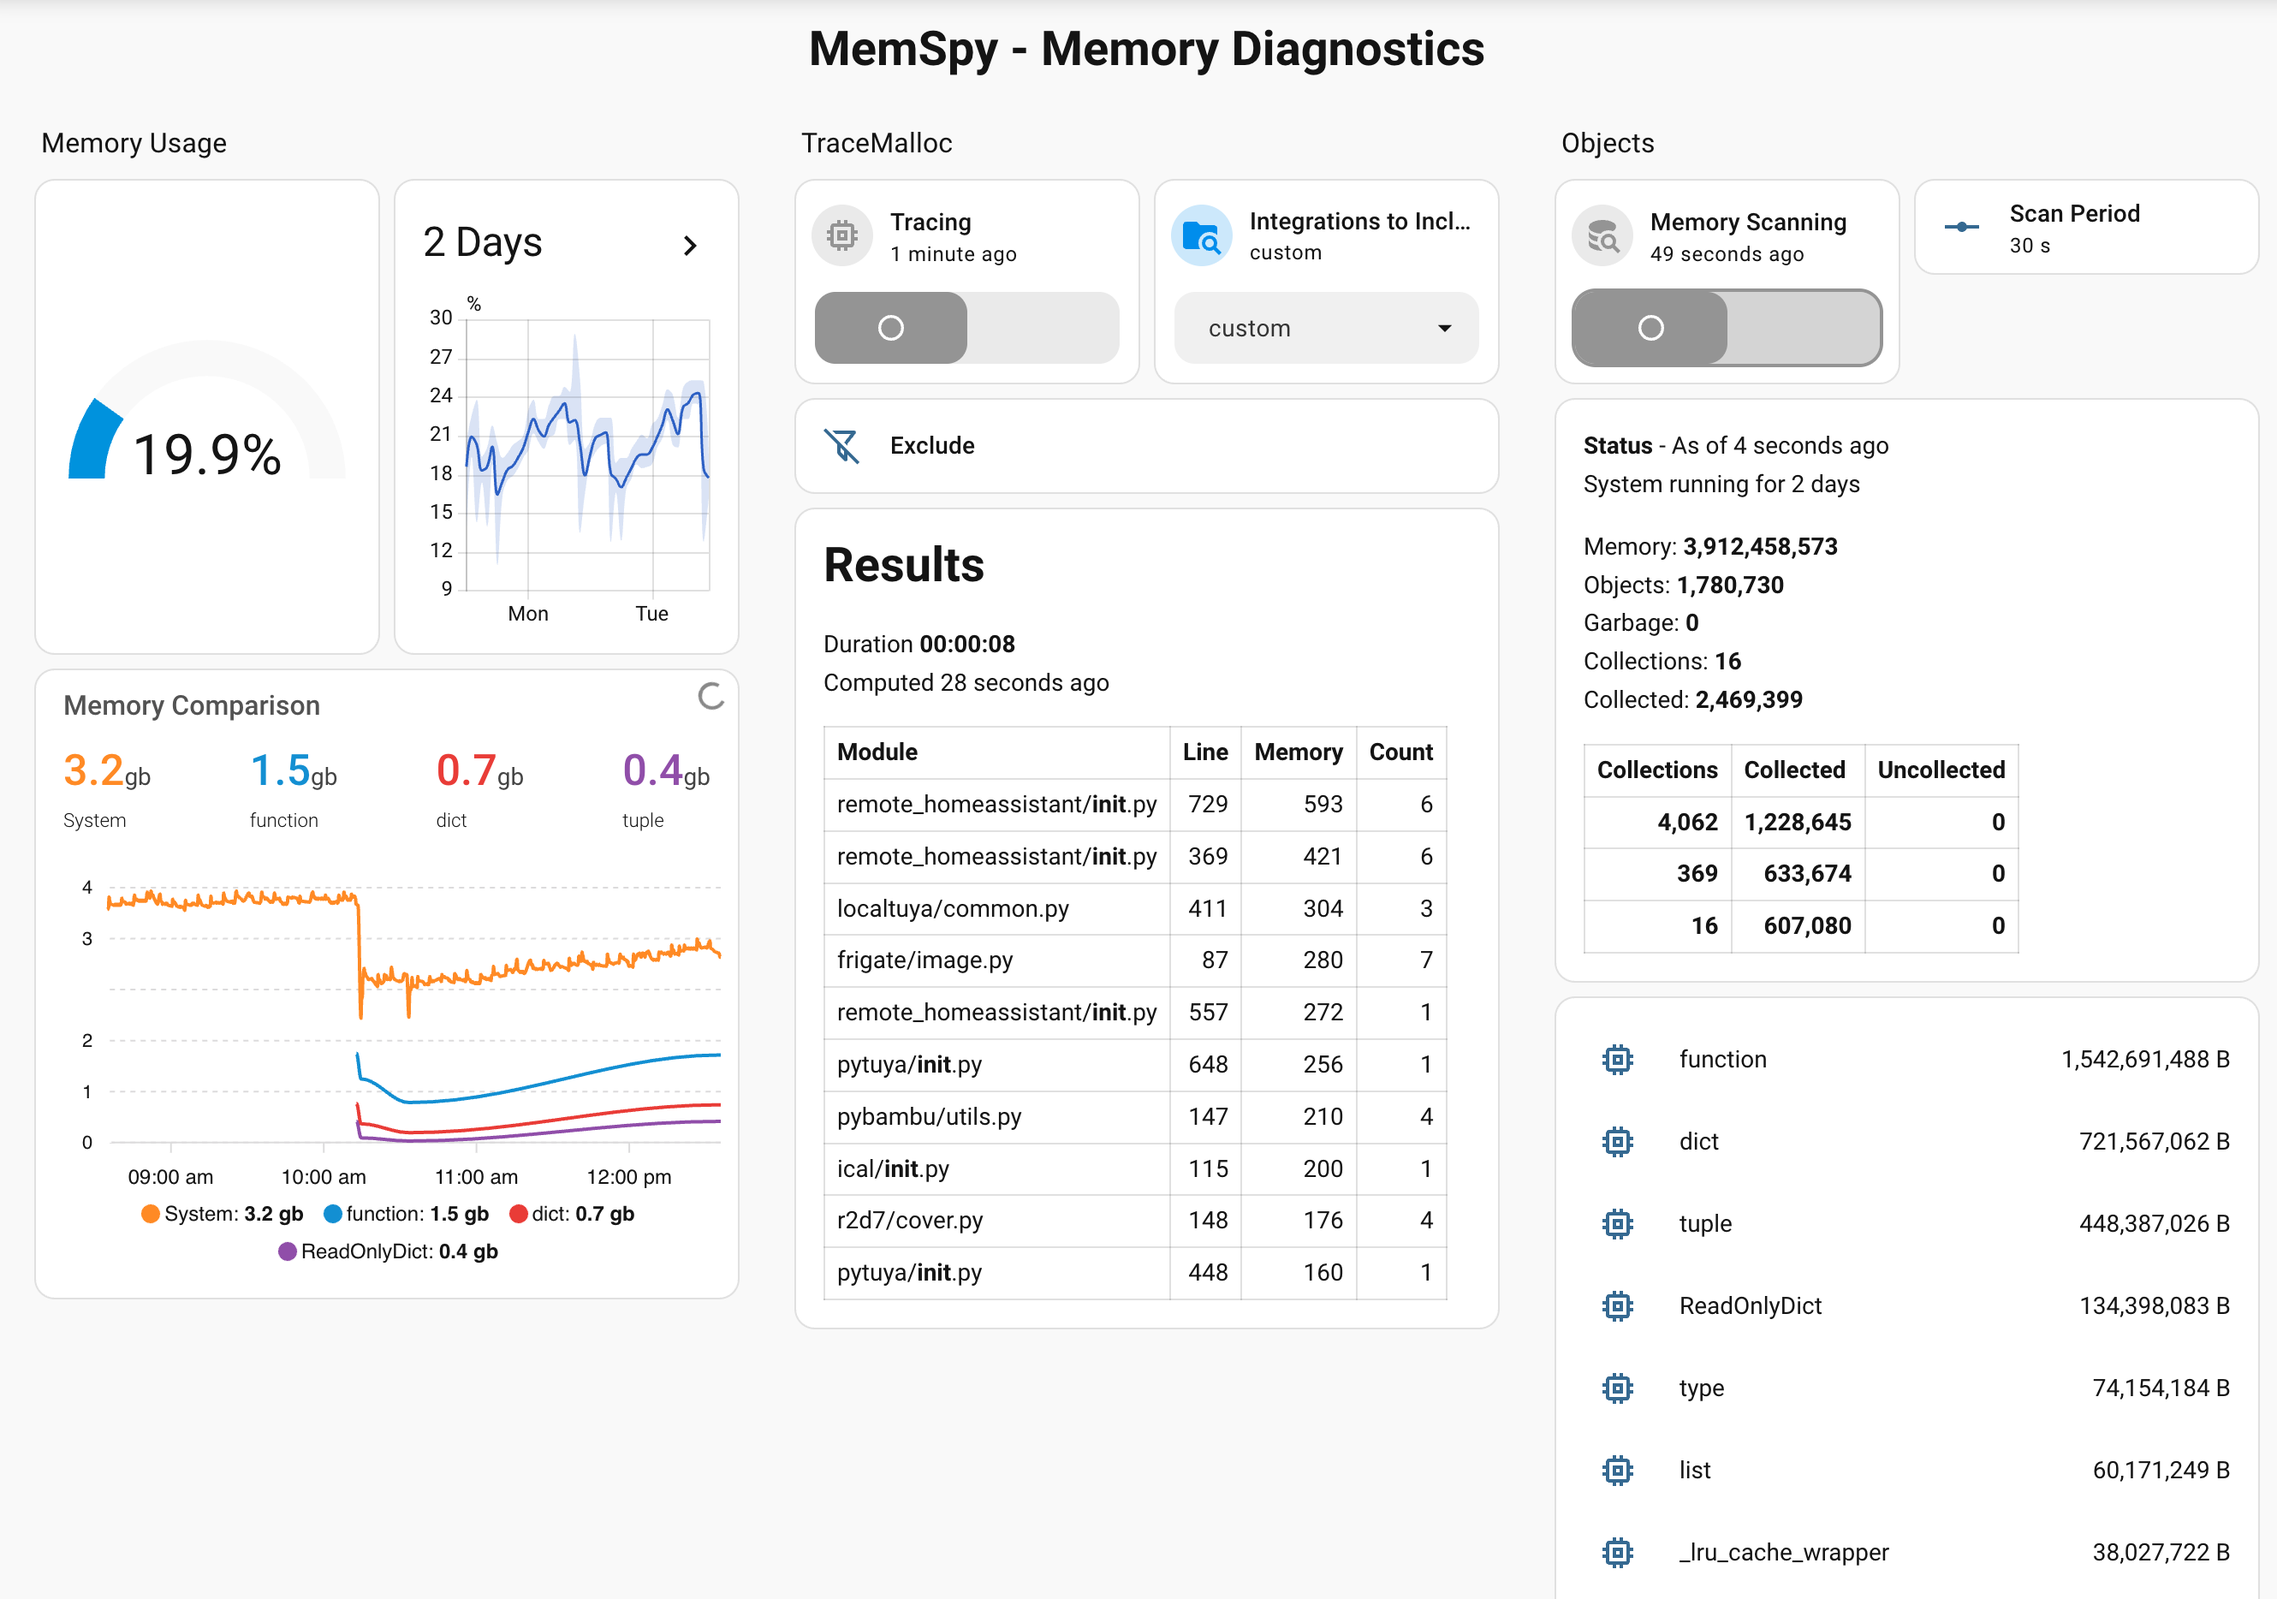
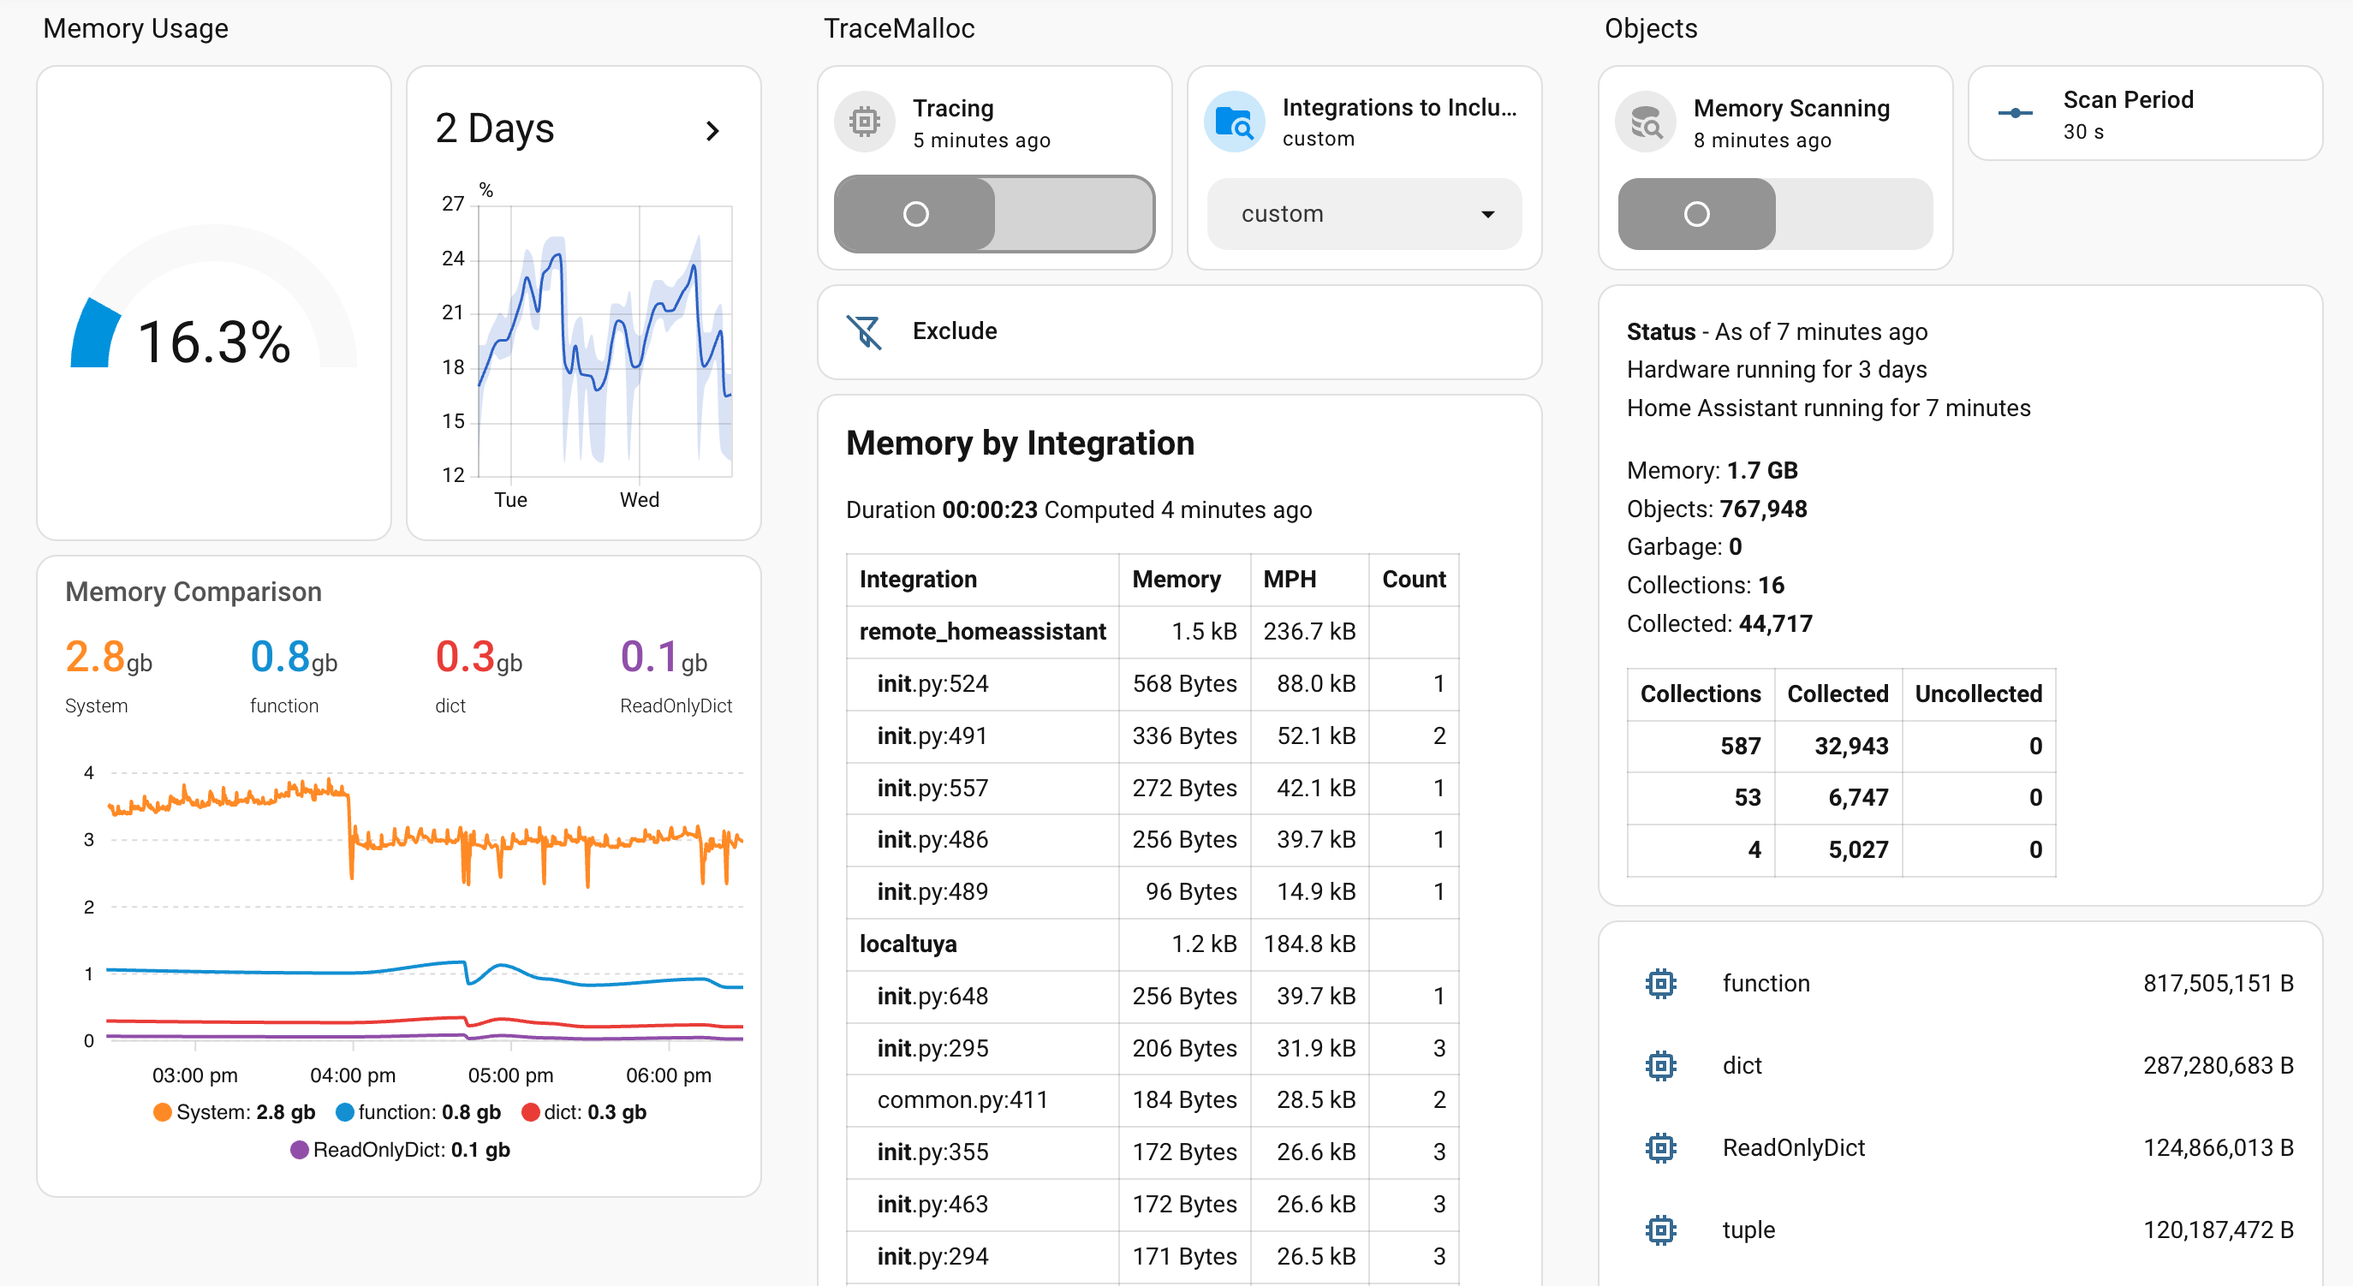
Release Memspy 1.3.0

diff --git a/README.md b/README.md
@@ -9,7 +9,7 @@
 [![Open your Home Assistant instance and start setting up a new integration.](https://my.home-assistant.io/badges/config_flow_start.svg)](https://my.home-assistant.io/redirect/config_flow_start/?domain=memspy)
 
 *Written by Michael Dubno* -
-Version: 1.2.27
+Version: 1.3.0
 
 A Home Assistant custom integration used for debugging memory issues. It reports memory allocations by integrations, Python object memory usage, and garbage-collector statistics. It exposes all of this through standard Home Assistant entities.
 
